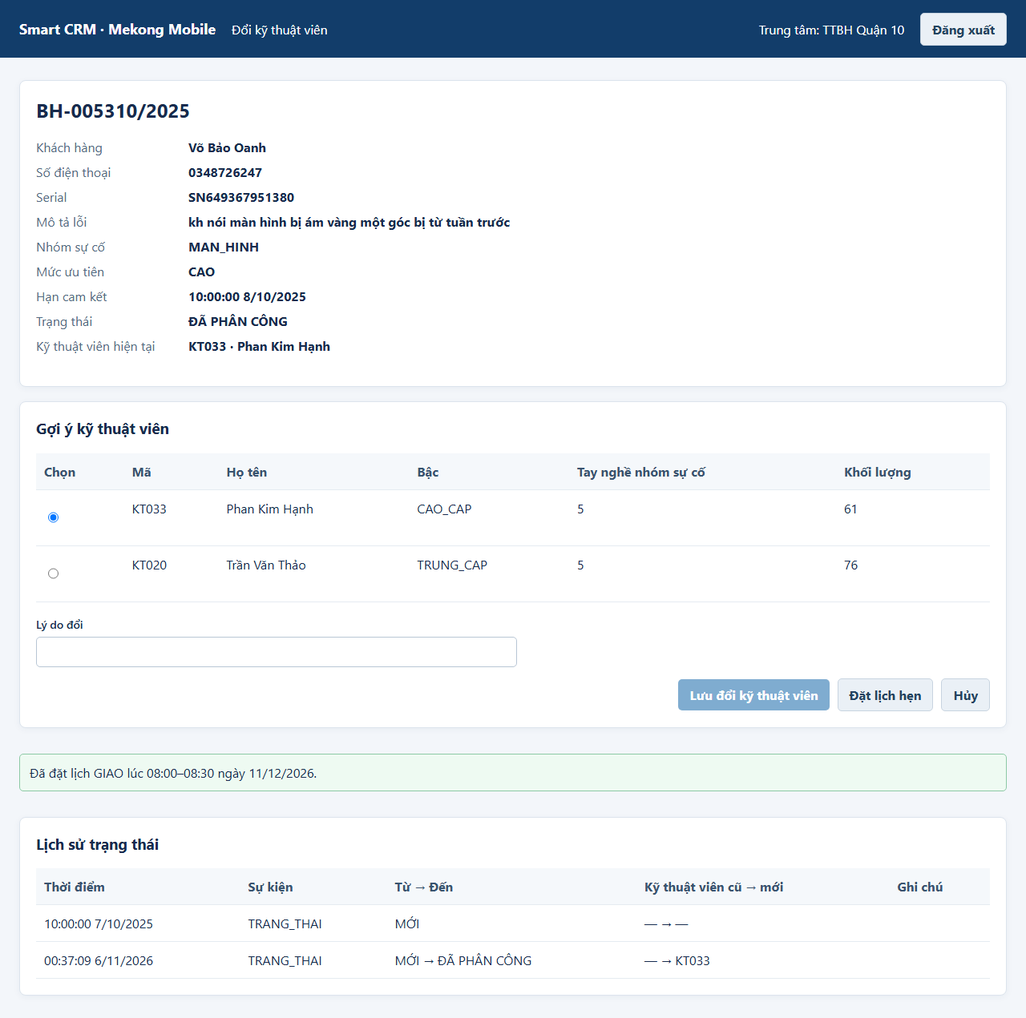
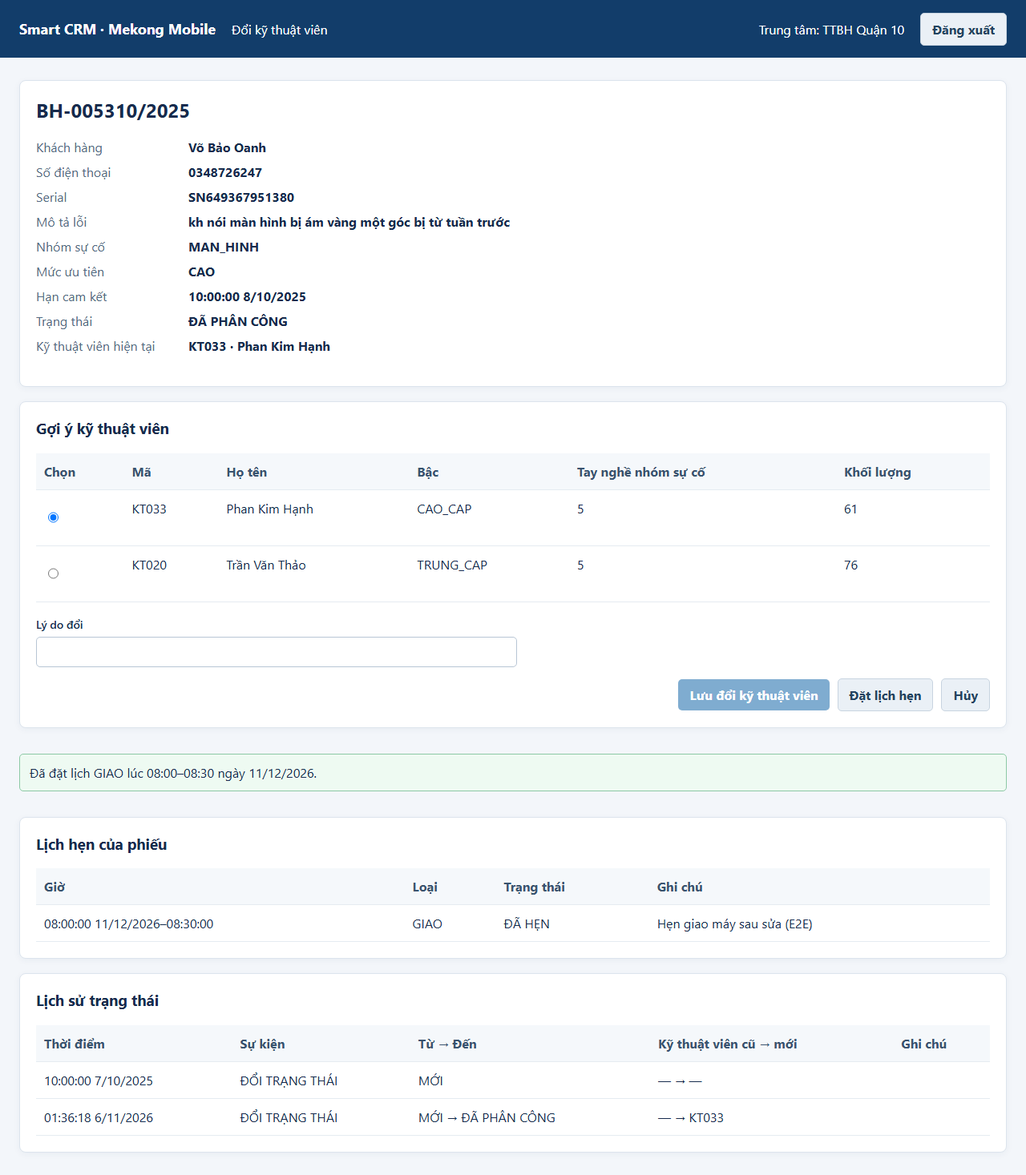
test: add TC01-TC18 browser evidence and generated testcase report
18 passed in 255.47s on e6ed9eb; 31 real browser screenshots plus
docs/test-evidence/testcase.md. E2E images refreshed for the new UI.

diff --git a/docs/test-evidence/testcase.md b/docs/test-evidence/testcase.md
@@ -1,0 +1,293 @@
+# BÁO CÁO KẾT QUẢ KIỂM THỬ TỰ ĐỘNG
+
+## 1. Thông tin lần chạy
+- Thời điểm: 2026-11-06T01:36:00+07:00
+- Lệnh chạy: `python -m pytest -p no:cacheprovider -m system`
+- Commit hash: `e6ed9eb` (nhánh `main`)
+- Hệ điều hành: Windows-11-10.0.26300-SP0
+- Python 3.14.2 · pytest 9.1.1 · Playwright 1.64.1
+- Trình duyệt: chromium 156.0.8078.4
+- UI_BASE_URL: http://localhost:5173 · API_BASE_URL: http://localhost:8000
+- CSDL: mỗi test chạy trên `smartcrm_work_test`, tạo lại từ `smartcrm_test` (dữ liệu thật) trước test; backend được khởi động lại trên bản sao đó.
+- Số dòng 6 bảng của `smartcrm_test` lúc chạy: service_center 6, technician 38, technician_skill 159, ticket 7.317, ticket_status_log 35.719, appointment 300
+- Seed dữ liệu: phiếu MOI seed 20260901; lịch hẹn seed 20261102.
+
+## 2. Tổng hợp
+- Tổng số test: 18; PASS: 18; FAIL: 0; bỏ qua: 0; tổng thời gian: 254.7s
+- Dòng cuối của pytest: `18 passed in 254.74s`
+
+| Mã | Tên | Loại | Truy vết | Kênh | Kết quả | Thời gian (s) |
+|---|---|---|---|---|---|---:|
+| TC01 | Gợi ý kỹ thuật viên đúng thứ tự khối lượng công việc | Luồng đúng | US2 · FR2 · AC2.1 · QT-08, A1, A4, A6 | UI React | PASS | 15.56 |
+| TC02 | Gợi ý loại bỏ kỹ thuật viên không đủ điều kiện | Ngoại lệ | US2 · FR2 · AC2.2 · QT-08, A6 | UI React | PASS | 15.52 |
+| TC03 | Gợi ý trả danh sách rỗng kèm lý do khi không có kỹ thuật viên phù hợp | Ngoại lệ | US2 · FR2 · AC2.3 · QT-08 | UI React | PASS | 14.44 |
+| TC04 | Phân công kỹ thuật viên thành công và ghi lịch sử trạng thái | Luồng đúng | US3 · FR3, FR8 · AC3.1 · QT-06, QT-07, QT-08 | UI React | PASS | 14.34 |
+| TC05 | Biên: kỹ thuật viên có tay nghề đúng bằng 3 được phân công | Biên | US3 · FR3 · QT-08 | UI React | PASS | 9.90 |
+| TC06 | Biên: kỹ thuật viên có tay nghề bằng 2 bị từ chối | Biên | US3 · FR3 · AC3.2 · QT-08 | Swagger | PASS | 13.19 |
+| TC07 | Từ chối phân công khi phiếu đã được phân công | Ngoại lệ | US3 · FR3 · AC3.3 · QT-06, QT-07, NFR2 | UI React | PASS | 10.17 |
+| TC08 | Đặt lịch hẹn giao/nhận thiết bị hợp lệ | Luồng đúng | US6 · FR6 · AC6.1 · A2, QT-13 | UI React | PASS | 13.80 |
+| TC09 | Từ chối đặt lịch hẹn trùng khung giờ | Ngoại lệ | US6 · FR7 · AC6.2 · A3, NFR2 | Swagger | PASS | 15.22 |
+| TC10 | Biên: lịch hẹn liền kề (kết thúc = bắt đầu) không bị coi là trùng | Biên | US6 · FR7 · A3 | UI React | PASS | 14.21 |
+| TC11 | Từ chối chuyển trạng thái lùi, nhảy bước hoặc giá trị không hợp lệ | Ngoại lệ | US7 · FR8 · QT-06 | Swagger | PASS | 14.06 |
+| TC12 | Đổi kỹ thuật viên: bắt buộc có lý do, lý do rỗng bị từ chối | Dữ liệu sai | US4 · FR4 · QT-07 · EX-5.1 | Swagger + UI React | PASS | 14.82 |
+| TC13 | Che số điện thoại và phân quyền theo vai trò | Ngoại lệ | US5 · FR5 · QT-14, QT-15 · NFR3 | Swagger + UI React | PASS | 22.11 |
+| TC14 | Giao diện M1: trạng thái đang tải | Luồng đúng | US1 · FR1 · yêu cầu 3 trạng thái (Buổi 10) | UI React | PASS | 16.82 |
+| TC15 | Giao diện M1: trạng thái rỗng (không có phiếu chờ phân công) | Ngoại lệ | US1 · FR1 · EX-1.1 | UI React | PASS | 10.76 |
+| TC16 | Giao diện M1: trạng thái lỗi và nút Thử lại | Ngoại lệ | US1 · FR1 · NFR2 · EX-7b | UI React | PASS | 10.33 |
+| TC17 | Giao diện: xử lý 401 (hết phiên) và đăng nhập sai | Ngoại lệ | NFR3 · yêu cầu đăng nhập và 401 (Buổi 10) | UI React | PASS | 13.05 |
+| TC18 | End-to-end luồng chính: phân công → đặt lịch hẹn → cập nhật trạng thái đến HOÀN TẤT | Luồng đúng | US1–US7 · FR1–FR8 · UC1–UC7 · NFR4 | UI React | PASS | 16.43 |
+
+## 3. Chi tiết từng test case
+
+### TC01 – Gợi ý kỹ thuật viên đúng thứ tự khối lượng công việc
+- Loại: Luồng đúng | Truy vết: US2 · FR2 · AC2.1 · QT-08, A1, A4, A6 | Hàm test: `tests/service/test_suggestion.py::test_tc01_goi_y_dung_thu_tu[chromium]`
+- Given: Dữ liệu thật đã nạp. Tự tìm trong dữ liệu một cặp (trung tâm A, nhóm sự cố X) có ≥ 3 kỹ thuật viên đang làm việc với tay nghề ≥ 3. / Tạo 1 phiếu MỚI thuộc trung tâm A, nhóm X (trong giao dịch thử, sẽ rollback). / Trong giao dịch thử: vô hiệu hóa các phiếu đang giữ thật của 3 kỹ thuật viên đó rồi tạo phiếu để khối lượng lần lượt là 5, 2, 8; tắt (is_active = false) các kỹ thuật viên đủ điều kiện còn lại.
+- When: Quản lý trung tâm A gọi GET /api/tickets/{ticket_id}/technician-suggestions.
+- Then (kỳ vọng): HTTP 200; danh sách đúng 3 kỹ thuật viên theo thứ tự khối lượng 2 → 5 → 8. / Mỗi dòng có technician_code, full_name, proficiency (≥ 3) và workload.
+- Dữ liệu thật dùng: Trung tâm TT03, nhóm KHAC, phiếu MỚI TEST-7816 (tạo trên bản sao); KTV KT003, KT022, KT027; 3 KTV đủ điều kiện khác được tắt
+- Kết quả thực tế: HTTP 200; gợi ý theo thứ tự KT022 (khối lượng 2) → KT003 (khối lượng 5) → KT027 (khối lượng 8); SQL đếm khối lượng khớp (thời gian chạy 15.56s)
+- Trạng thái: PASS
+- Ảnh:
+  - TC01_goi_y_dung_thu_tu.png | http://localhost:5173/tickets/7816/assign | Smart CRM - Mekong Mobile | 2026-11-06T01:34:23+07:00 | 1280×1090 | tồn tại
+
+### TC02 – Gợi ý loại bỏ kỹ thuật viên không đủ điều kiện
+- Loại: Ngoại lệ | Truy vết: US2 · FR2 · AC2.2 · QT-08, A6 | Hàm test: `tests/service/test_suggestion.py::test_tc02_goi_y_loai_ktv_khong_du_dieu_kien[chromium]`
+- Given: Cùng kịch bản TC01 (trung tâm A, nhóm X, phiếu MỚI). / Thêm trong giao dịch thử: 1 kỹ thuật viên trung tâm A có tay nghề nhóm X = 2; 1 kỹ thuật viên trung tâm B có tay nghề nhóm X = 5; 1 kỹ thuật viên trung tâm A đủ tay nghề nhưng is_active = false.
+- When: Quản lý trung tâm A mở gợi ý cho phiếu.
+- Then (kỳ vọng): HTTP 200; cả 3 kỹ thuật viên nói trên KHÔNG xuất hiện trong danh sách. / Danh sách chỉ gồm người cùng trung tâm A, đang làm việc, tay nghề ≥ 3.
+- Dữ liệu thật dùng: Trung tâm TT03, nhóm KHAC, phiếu TEST-7816; KTV bị loại: KT019 (tay nghề 2); KT002 (trung tâm khác, tay nghề 5); KT032 (đã nghỉ, tay nghề 4)
+- Kết quả thực tế: HTTP 200; danh sách gợi ý KT022, KT003, KT027; không có KT019, KT002, KT032 (thời gian chạy 15.52s)
+- Trạng thái: PASS
+- Ảnh:
+  - TC02_goi_y_loai_ktv_khong_du_dieu_kien.png | http://localhost:5173/tickets/7816/assign | Smart CRM - Mekong Mobile | 2026-11-06T01:34:38+07:00 | 1280×1090 | tồn tại
+
+### TC03 – Gợi ý trả danh sách rỗng kèm lý do khi không có kỹ thuật viên phù hợp
+- Loại: Ngoại lệ | Truy vết: US2 · FR2 · AC2.3 · QT-08 | Hàm test: `tests/service/test_suggestion.py::test_tc03_goi_y_rong_khong_co_ktv[chromium]`
+- Given: Phiếu MỚI thuộc trung tâm A, nhóm sự cố Y. / Trong giao dịch thử: hạ tay nghề nhóm Y của mọi kỹ thuật viên trung tâm A xuống < 3.
+- When: Quản lý trung tâm A mở gợi ý cho phiếu.
+- Then (kỳ vọng): HTTP 200 (không phải lỗi); suggestions là danh sách rỗng. / Có trường message nêu rõ lý do (không có người cùng trung tâm đủ tay nghề ≥ 3). / Phiếu vẫn ở trạng thái MOI, không có kỹ thuật viên.
+- Dữ liệu thật dùng: Phiếu MỚI thật BH-000001/2025 (trung tâm TT05, nhóm SAC); hạ tay nghề SAC của 4 KTV trung tâm này xuống 2 trên bản sao
+- Kết quả thực tế: HTTP 200; suggestions = []; message: "Không có kỹ thuật viên cùng trung tâm đủ tay nghề từ 3 trở lên."; phiếu vẫn MOI, chưa có KTV (thời gian chạy 14.44s)
+- Trạng thái: PASS
+- Ảnh:
+  - TC03_goi_y_rong_khong_co_ktv.png | http://localhost:5173/tickets/1/assign | Smart CRM - Mekong Mobile | 2026-11-06T01:34:53+07:00 | 1280×893 | tồn tại
+
+### TC04 – Phân công kỹ thuật viên thành công và ghi lịch sử trạng thái
+- Loại: Luồng đúng | Truy vết: US3 · FR3, FR8 · AC3.1 · QT-06, QT-07, QT-08 | Hàm test: `tests/service/test_assignment.py::test_tc04_phan_cong_thanh_cong[chromium]`
+- Given: Phiếu MỚI thuộc trung tâm A, nhóm X, chưa có kỹ thuật viên. / Kỹ thuật viên P đứng đầu danh sách gợi ý (cùng trung tâm, tay nghề ≥ 3, đang làm việc). / Ghi nhận trước số dòng ticket_status_log của phiếu.
+- When: Quản lý trung tâm A gọi POST /api/tickets/{ticket_id}/assignment với {"technician_id": P}.
+- Then (kỳ vọng): HTTP 201; phản hồi có status = DA_PHAN_CONG, technician_id = P, assigned_by, assigned_at. / Trong CSDL: ticket.status = DA_PHAN_CONG và ticket.technician_id = P. / ticket_status_log tăng đúng 1 dòng: event_type = TRANG_THAI, from_status = MOI, to_status = DA_PHAN_CONG, to_technician_id = P, có changed_by và changed_at.
+- Dữ liệu thật dùng: Phiếu MỚI thật BH-000001/2025 (trung tâm TT05, nhóm SAC); KTV đầu danh sách KT026 (khối lượng 20)
+- Kết quả thực tế: HTTP 201, status DA_PHAN_CONG, technician_id 26, assigned_by 5; log 1 → 2 dòng (TRANG_THAI, MOI → DA_PHAN_CONG) (thời gian chạy 14.34s)
+- Trạng thái: PASS
+- Ảnh:
+  - TC04_phan_cong_thanh_cong.png | http://localhost:5173/tickets/1/assign | Smart CRM - Mekong Mobile | 2026-11-06T01:33:05+07:00 | 1280×1411 | tồn tại
+
+### TC05 – Biên: kỹ thuật viên có tay nghề đúng bằng 3 được phân công
+- Loại: Biên | Truy vết: US3 · FR3 · QT-08 | Hàm test: `tests/service/test_assignment.py::test_tc05_bien_tay_nghe_bang_3[chromium]`
+- Given: Phiếu MỚI thuộc trung tâm A, nhóm X. / Kỹ thuật viên Q cùng trung tâm A, đang làm việc, tay nghề nhóm X đặt đúng = 3 (trong giao dịch thử).
+- When: Quản lý trung tâm A phân công Q cho phiếu.
+- Then (kỳ vọng): HTTP 201; phiếu chuyển sang DA_PHAN_CONG với technician_id = Q (ngưỡng ≥ 3 là ngưỡng đóng, giá trị 3 hợp lệ).
+- Dữ liệu thật dùng: Phiếu MỚI thật BH-000001/2025 (trung tâm TT05, nhóm SAC); KTV KT024 cùng trung tâm, đặt proficiency SAC = 3 trên bản sao
+- Kết quả thực tế: HTTP 201; phiếu DA_PHAN_CONG, technician_id = 24 (KT024) (thời gian chạy 9.90s)
+- Trạng thái: PASS
+- Ảnh:
+  - TC05_bien_tay_nghe_bang_3.png | http://localhost:5173/tickets/1/assign | Smart CRM - Mekong Mobile | 2026-11-06T01:33:15+07:00 | 1280×1481 | tồn tại
+
+### TC06 – Biên: kỹ thuật viên có tay nghề bằng 2 bị từ chối
+- Loại: Biên | Truy vết: US3 · FR3 · AC3.2 · QT-08 | Hàm test: `tests/service/test_assignment.py::test_tc06_bien_tay_nghe_bang_2[chromium]`
+- Given: Phiếu MỚI thuộc trung tâm A, nhóm X. / Kỹ thuật viên R cùng trung tâm A, đang làm việc, tay nghề nhóm X = 2. / Ghi nhận trước số dòng ticket_status_log.
+- When: Quản lý trung tâm A gửi yêu cầu phân công R cho phiếu.
+- Then (kỳ vọng): HTTP 400, mã lỗi TECHNICIAN_NOT_ELIGIBLE, message nêu rõ tay nghề < 3. / Phiếu vẫn status = MOI, technician_id = NULL; ticket_status_log không tăng dòng nào.
+- Dữ liệu thật dùng: Phiếu MỚI thật BH-000001/2025 (trung tâm TT05, nhóm SAC); KTV KT007 (id 7) đặt proficiency SAC = 2 trên bản sao
+- Kết quả thực tế: HTTP 400 TECHNICIAN_NOT_ELIGIBLE: "Kỹ thuật viên không đủ điều kiện: tay nghề SAC = 2 (< 3) hoặc khác trung tâm/đã nghỉ việc."; phiếu vẫn MOI, technician_id NULL; log giữ 1 dòng (thời gian chạy 13.19s)
+- Trạng thái: PASS
+- Ảnh:
+  - TC06_bien_tay_nghe_bang_2.png | http://localhost:8000/docs#/tickets/assign_ticket_api_tickets__ticket_id__assignment_post | Smart CRM - Swagger UI | 2026-11-06T01:33:28+07:00 | 1224×1378 (khối thao tác Swagger) | tồn tại
+
+### TC07 – Từ chối phân công khi phiếu đã được phân công
+- Loại: Ngoại lệ | Truy vết: US3 · FR3 · AC3.3 · QT-06, QT-07, NFR2 | Hàm test: `tests/service/test_assignment.py::test_tc07_phan_cong_phieu_da_co_ktv[chromium]`
+- Given: Phiếu đã được phân công cho kỹ thuật viên P (status DA_PHAN_CONG) qua đúng nghiệp vụ. / Kỹ thuật viên Q khác, đủ điều kiện, cùng trung tâm.
+- When: Một quản lý khác của cùng trung tâm gọi POST /assignment với technician_id = Q cho cùng phiếu.
+- Then (kỳ vọng): HTTP 409, mã lỗi TICKET_ALREADY_ASSIGNED, message có mã kỹ thuật viên hiện tại (P). / Phiếu vẫn technician_id = P; ticket_status_log không tăng thêm dòng.
+- Dữ liệu thật dùng: Phiếu MỚI thật BH-000001/2025 (trung tâm TT05, nhóm SAC); phiên 2 phân công KT026, phiên 1 thử phân công KT017
+- Kết quả thực tế: Phiên 2: HTTP 201. Phiên 1: HTTP 409 TICKET_ALREADY_ASSIGNED: "Phiếu đã được phân công cho kỹ thuật viên KT026."; phiếu vẫn thuộc KT026; log không tăng thêm (thời gian chạy 10.17s)
+- Trạng thái: PASS
+- Ảnh:
+  - TC07_phan_cong_phieu_da_co_ktv.png | http://localhost:5173/tickets/1/assign | Smart CRM - Mekong Mobile | 2026-11-06T01:33:38+07:00 | 1280×1294 | tồn tại
+
+### TC08 – Đặt lịch hẹn giao/nhận thiết bị hợp lệ
+- Loại: Luồng đúng | Truy vết: US6 · FR6 · AC6.1 · A2, QT-13 | Hàm test: `tests/service/test_appointment.py::test_tc08_dat_lich_hop_le[chromium]`
+- Given: Phiếu đã gán kỹ thuật viên K (DA_PHAN_CONG); K chưa có lịch nào vào ngày làm việc D (Thứ Hai–Thứ Bảy, cách hôm nay ≥ 30 ngày để không đụng lịch hẹn mẫu).
+- When: Kỹ thuật viên K (hoặc Quản lý) gọi POST /api/appointments với appointment_type = NHAN, 09:00–09:30 ngày D.
+- Then (kỳ vọng): HTTP 201; phản hồi có status = DA_HEN, technician_id = K, appointment_type = NHAN, start_at/end_at đúng khung 09:00–09:30. / Lịch hẹn xuất hiện trong danh sách lịch hẹn của phiếu và của K.
+- Dữ liệu thật dùng: KTV KT008, phiếu thật BH-000009/2026 (DA_PHAN_CONG); ngày D = 07/12/2026, K chưa có lịch ngày D
+- Kết quả thực tế: HTTP 201, appointment_id 301, status DA_HEN, NHAN, 09:00–09:30 ngày 07/12/2026; có trong lịch hẹn của phiếu và của KT008 (thời gian chạy 13.80s)
+- Trạng thái: PASS
+- Ảnh:
+  - TC08_dat_lich_hop_le.png | http://localhost:5173/my-tickets | Smart CRM - Mekong Mobile | 2026-11-06T01:32:21+07:00 | 1280×2357 | tồn tại
+
+### TC09 – Từ chối đặt lịch hẹn trùng khung giờ
+- Loại: Ngoại lệ | Truy vết: US6 · FR7 · AC6.2 · A3, NFR2 | Hàm test: `tests/service/test_appointment.py::test_tc09_dat_lich_trung[chromium]`
+- Given: Kỹ thuật viên K đã có lịch hẹn DA_HEN 09:00–09:30 vào ngày làm việc D (Thứ Hai–Thứ Bảy, cách hôm nay ≥ 30 ngày để không đụng lịch hẹn mẫu). / Ghi nhận trước số dòng bảng appointment.
+- When: Đặt thêm lịch hẹn cho K khung 09:15–09:45 cùng ngày.
+- Then (kỳ vọng): HTTP 409, mã lỗi APPOINTMENT_OVERLAP. / Trường conflicts liệt kê lịch bị trùng (appointment_id, ticket_code, start_at, end_at). / Số dòng bảng appointment không đổi (không lưu lịch mới).
+- Dữ liệu thật dùng: KTV KT008, phiếu thật BH-000009/2026; ngày D = 07/12/2026; lịch có sẵn #301 09:00–09:30
+- Kết quả thực tế: HTTP 409 APPOINTMENT_OVERLAP; conflicts: #301 BH-000009/2026 09:00–09:30; bảng appointment giữ 301 dòng (thời gian chạy 15.22s)
+- Trạng thái: PASS
+- Ảnh:
+  - TC09_dat_lich_trung.png | http://localhost:8000/docs#/appointments/create_appointment_api_appointments_post | Smart CRM - Swagger UI | 2026-11-06T01:32:37+07:00 | 1224×1564 (khối thao tác Swagger) | tồn tại
+
+### TC10 – Biên: lịch hẹn liền kề (kết thúc = bắt đầu) không bị coi là trùng
+- Loại: Biên | Truy vết: US6 · FR7 · A3 | Hàm test: `tests/service/test_appointment.py::test_tc10_bien_lich_lien_ke[chromium]`
+- Given: Kỹ thuật viên K đã có lịch DA_HEN 09:00–09:30 vào ngày làm việc D (Thứ Hai–Thứ Bảy, cách hôm nay ≥ 30 ngày để không đụng lịch hẹn mẫu).
+- When: Đặt thêm lịch hẹn cho K khung 09:30–10:00 cùng ngày.
+- Then (kỳ vọng): HTTP 201; lịch mới được lưu (khoảng nửa mở [start, end) nên không giao nhau). / K có đúng 2 lịch DA_HEN trong ngày D; ràng buộc EXCLUDE của CSDL không báo lỗi.
+- Dữ liệu thật dùng: KTV KT008, phiếu thật BH-000009/2026; ngày D = 07/12/2026; lịch có sẵn #301 09:00–09:30
+- Kết quả thực tế: HTTP 201 cho lịch 09:30–10:00; K có đúng 2 lịch DA_HEN ngày D (09:00–09:30, 09:30–10:00); ràng buộc EXCLUDE không báo lỗi (thời gian chạy 14.21s)
+- Trạng thái: PASS
+- Ảnh:
+  - TC10_bien_lich_lien_ke.png | http://localhost:5173/my-tickets | Smart CRM - Mekong Mobile | 2026-11-06T01:32:51+07:00 | 1280×2403 | tồn tại
+
+### TC11 – Từ chối chuyển trạng thái lùi, nhảy bước hoặc giá trị không hợp lệ
+- Loại: Ngoại lệ | Truy vết: US7 · FR8 · QT-06 | Hàm test: `tests/service/test_status.py::test_tc11_chuyen_trang_thai_lui[chromium]`
+- Given: Kỹ thuật viên K có phiếu T1 ở trạng thái HOAN_TAT và phiếu T2 ở trạng thái DA_PHAN_CONG. / Ghi nhận trước số dòng ticket_status_log của T1, T2.
+- When: (a) K gọi PATCH /api/tickets/{T1}/status với to_status = DANG_XU_LY (lùi). / (b) K gọi PATCH /api/tickets/{T2}/status với to_status = HOAN_TAT (nhảy bước). / (c) K gọi PATCH /api/tickets/{T2}/status với to_status = "ABC".
+- Then (kỳ vọng): (a) và (b): HTTP 409; trạng thái phiếu giữ nguyên; log không tăng. / (c): HTTP 400 (giá trị trạng thái không hợp lệ); T2 vẫn DA_PHAN_CONG.
+- Dữ liệu thật dùng: KTV KT002; T1 = BH-000788/2024 (HOAN_TAT), T2 = BH-000622/2025 (DA_PHAN_CONG)
+- Kết quả thực tế: (a) HTTP 409 "Không thể chuyển từ HOAN_TAT sang DANG_XU_LY."; (b) HTTP 409 "Không thể chuyển từ DA_PHAN_CONG sang HOAN_TAT."; (c) HTTP 400 INVALID_STATUS; T1 vẫn HOAN_TAT, T2 vẫn DA_PHAN_CONG; log không đổi (thời gian chạy 14.06s)
+- Trạng thái: PASS
+- Ảnh:
+  - TC11_chuyen_trang_thai_lui.png | http://localhost:8000/docs#/tickets/update_ticket_status_api_tickets__ticket_id__status_patch | Smart CRM - Swagger UI | 2026-11-06T01:34:07+07:00 | 1224×1378 (khối thao tác Swagger) | tồn tại
+  - TC11_chuyen_trang_thai_lui_b.png | http://localhost:8000/docs#/tickets/update_ticket_status_api_tickets__ticket_id__status_patch | Smart CRM - Swagger UI | 2026-11-06T01:34:07+07:00 | 1224×1386 (khối thao tác Swagger) | tồn tại
+  - TC11_chuyen_trang_thai_lui_c.png | http://localhost:8000/docs#/tickets/update_ticket_status_api_tickets__ticket_id__status_patch | Smart CRM - Swagger UI | 2026-11-06T01:34:07+07:00 | 1224×1386 (khối thao tác Swagger) | tồn tại
+
+### TC12 – Đổi kỹ thuật viên: bắt buộc có lý do, lý do rỗng bị từ chối
+- Loại: Dữ liệu sai | Truy vết: US4 · FR4 · QT-07 · EX-5.1 | Hàm test: `tests/service/test_assignment.py::test_tc12_doi_ktv_thieu_ly_do[chromium]`
+- Given: Phiếu DA_PHAN_CONG đang gán cho kỹ thuật viên K1; kỹ thuật viên K2 đủ điều kiện cùng trung tâm. / Ghi nhận trước số dòng ticket_status_log.
+- When: (a) Quản lý gọi PUT /api/tickets/{id}/assignment với technician_id = K2, reason = "". / (b) Như (a) nhưng reason = "   " (chỉ khoảng trắng). / (c) Như (a) nhưng reason = "Kỹ thuật viên cũ nghỉ phép".
+- Then (kỳ vọng): (a) và (b): HTTP 400; phiếu vẫn thuộc K1; log không tăng. / (c): HTTP 200; phiếu chuyển sang K2, trạng thái phiếu không lùi; log tăng đúng 1 dòng event_type = DOI_KTV, from_technician_id = K1, to_technician_id = K2, note = lý do.
+- Dữ liệu thật dùng: Phiếu thật BH-000009/2026 (trung tâm TT02, nhóm SAC) đang thuộc KT008; K2 = KT012
+- Kết quả thực tế: (a) reason "": HTTP 400 REASON_REQUIRED; (b) reason "   ": HTTP 400 REASON_REQUIRED; (c) lý do hợp lệ: HTTP 200, phiếu chuyển sang KT012, vẫn DA_PHAN_CONG; log thêm 1 dòng DOI_KTV KT008 → KT012 (thời gian chạy 14.82s)
+- Trạng thái: PASS
+- Ảnh:
+  - TC12_doi_ktv_thieu_ly_do_a.png | http://localhost:8000/docs#/tickets/change_assignment_api_tickets__ticket_id__assignment_put | Smart CRM - Swagger UI | 2026-11-06T01:33:52+07:00 | 1224×1392 (khối thao tác Swagger) | tồn tại
+  - TC12_doi_ktv_thieu_ly_do.png | http://localhost:5173/tickets/9/assign | Smart CRM - Mekong Mobile | 2026-11-06T01:33:53+07:00 | 1280×1653 | tồn tại
+
+### TC13 – Che số điện thoại và phân quyền theo vai trò
+- Loại: Ngoại lệ | Truy vết: US5 · FR5 · QT-14, QT-15 · NFR3 | Hàm test: `tests/service/test_access.py::test_tc13_che_so_dien_thoai_va_phan_quyen[chromium]`
+- Given: Phiếu T1 gán cho kỹ thuật viên K, khách có số điện thoại 10 chữ số; phiếu T2 gán cho kỹ thuật viên K' khác. / Có Quản lý trung tâm của trung tâm chứa T1.
+- When: (a) K gọi GET /api/technicians/me/tickets. / (b) Quản lý gọi GET /api/tickets/{T1} (hoặc danh sách phiếu). / (c) K gọi GET /api/tickets/{T2}.
+- Then (kỳ vọng): (a) Số điện thoại dạng che 3 số đầu + **** + 3 số cuối (ví dụ 090****456); 0 phiếu của người khác trong phản hồi. / (b) Số điện thoại hiển thị đầy đủ cho Quản lý. / (c) HTTP 403.
+- Dữ liệu thật dùng: T1 = BH-000002/2025 của KTV KT005 (SĐT khách 0334058225); T2 = BH-000003/2026 của KT013; Quản lý QL_TT02
+- Kết quả thực tế: (a) 211 phiếu, tất cả của KT005, SĐT dạng che (T1: 033****225); (b) Quản lý thấy 0334058225; (c) HTTP 403 "Bạn không phải kỹ thuật viên phụ trách phiếu này" (thời gian chạy 22.11s)
+- Trạng thái: PASS
+- Ảnh:
+  - TC13_che_so_dien_thoai_va_phan_quyen.png | http://localhost:5173/my-tickets | Smart CRM - Mekong Mobile | 2026-11-06T01:32:00+07:00 | 1280×1995 | tồn tại
+  - TC13_che_so_dien_thoai_va_phan_quyen_c.png | http://localhost:8000/docs#/tickets/get_ticket_api_tickets__ticket_id__get | Smart CRM - Swagger UI | 2026-11-06T01:32:02+07:00 | 1224×895 (khối thao tác Swagger) | tồn tại
+  - TC13_che_so_dien_thoai_va_phan_quyen_b.png | http://localhost:5173/tickets/2/assign | Smart CRM - Mekong Mobile | 2026-11-06T01:32:08+07:00 | 1280×1364 | tồn tại
+
+### TC14 – Giao diện M1: trạng thái đang tải
+- Loại: Luồng đúng | Truy vết: US1 · FR1 · yêu cầu 3 trạng thái (Buổi 10) | Hàm test: `tests/ui/test_states.py::test_tc14_ui_trang_thai_dang_tai[chromium]`
+- Given: Đăng nhập bằng Quản lý của trung tâm có phiếu MỚI (dữ liệu thật). / Playwright làm chậm phản hồi GET /api/tickets 3 giây.
+- When: Mở màn hình M1 – Phiếu chờ phân công.
+- Then (kỳ vọng): Trong lúc chờ thấy vùng [data-testid=state-loading] với chữ "Đang tải dữ liệu…"; chụp ảnh đúng lúc này. / Sau khi dữ liệu về: vùng đang tải biến mất, bảng hiển thị ≥ 1 dòng phiếu thật.
+- Dữ liệu thật dùng: Quản lý QL_TT01 (5 phiếu MOI thật); GET /api/tickets bị giữ 3.0s
+- Kết quả thực tế: Trong lúc chờ: "Đang tải dữ liệu…", chưa có bảng; sau 3.0s bảng hiện 5 phiếu, dòng đầu BH-005310/2025 (thời gian chạy 16.82s)
+- Trạng thái: PASS
+- Ảnh:
+  - TC14_ui_trang_thai_dang_tai.png | http://localhost:5173/tickets | Smart CRM - Mekong Mobile | 2026-11-06T01:35:19+07:00 | 1280×720 | tồn tại
+
+### TC15 – Giao diện M1: trạng thái rỗng (không có phiếu chờ phân công)
+- Loại: Ngoại lệ | Truy vết: US1 · FR1 · EX-1.1 | Hàm test: `tests/ui/test_states.py::test_tc15_ui_trang_thai_rong[chromium]`
+- Given: Đăng nhập bằng Quản lý của trung tâm không có phiếu MỚI nào (script nạp dữ liệu cố ý chừa 1 trung tâm).
+- When: Mở màn hình M1.
+- Then (kỳ vọng): Hiển thị vùng [data-testid=state-empty] với chữ "Không có phiếu chờ phân công". / Không có vùng lỗi [data-testid=state-error]; không hiển thị thông báo đỏ.
+- Dữ liệu thật dùng: Quản lý QL_TT06; trên bản sao đã xoá 5 phiếu MOI của trung tâm này (BH-004381/2024, BH-004873/2024, BH-005905/2025, BH-006447/2026, BH-007629/2025); SQL đếm MOI = 0
+- Kết quả thực tế: M1 hiện "Không có phiếu chờ phân công"; không có vùng lỗi, không có dải đỏ (thời gian chạy 10.76s)
+- Trạng thái: PASS
+- Ảnh:
+  - TC15_ui_trang_thai_rong.png | http://localhost:5173/tickets | Smart CRM - Mekong Mobile | 2026-11-06T01:35:37+07:00 | 1280×720 | tồn tại
+
+### TC16 – Giao diện M1: trạng thái lỗi và nút Thử lại
+- Loại: Ngoại lệ | Truy vết: US1 · FR1 · NFR2 · EX-7b | Hàm test: `tests/ui/test_states.py::test_tc16_ui_trang_thai_loi[chromium]`
+- Given: Đăng nhập Quản lý của trung tâm có phiếu MỚI. / Playwright chặn (abort) GET /api/tickets để mô phỏng backend không phản hồi.
+- When: Mở M1; sau đó bỏ chặn và bấm nút "Thử lại".
+- Then (kỳ vọng): Hiển thị vùng [data-testid=state-error] có thông báo lỗi dễ hiểu và nút "Thử lại" ([data-testid=retry-button]); chụp ảnh 1. / Sau khi bỏ chặn và bấm Thử lại: bảng phiếu thật hiển thị; chụp ảnh 2.
+- Dữ liệu thật dùng: Quản lý QL_TT01 (5 phiếu MOI thật); GET /api/tickets bị chặn (abort) rồi bỏ chặn
+- Kết quả thực tế: Lần 1: "Không thể kết nối máy chủ. Vui lòng thử lại." + nút Thử lại; sau khi bấm Thử lại: bảng hiện 5 phiếu thật, dải lỗi biến mất (thời gian chạy 10.33s)
+- Trạng thái: PASS
+- Ảnh:
+  - TC16_ui_trang_thai_loi_1_loi.png | http://localhost:5173/tickets | Smart CRM - Mekong Mobile | 2026-11-06T01:35:47+07:00 | 1280×720 | tồn tại
+  - TC16_ui_trang_thai_loi_2_thu_lai.png | http://localhost:5173/tickets | Smart CRM - Mekong Mobile | 2026-11-06T01:35:47+07:00 | 1280×720 | tồn tại
+
+### TC17 – Giao diện: xử lý 401 (hết phiên) và đăng nhập sai
+- Loại: Ngoại lệ | Truy vết: NFR3 · yêu cầu đăng nhập và 401 (Buổi 10) | Hàm test: `tests/ui/test_states.py::test_tc17_ui_het_phien_dang_nhap_401[chromium]`
+- Given: Đang đăng nhập (có token trong trình duyệt). / Playwright cho GET /api/tickets trả HTTP 401.
+- When: (a) Mở M1 khi API trả 401. / (b) Tại trang đăng nhập, nhập sai mật khẩu.
+- Then (kỳ vọng): (a) Token bị xóa khỏi bộ nhớ trình duyệt và giao diện chuyển về trang đăng nhập; chụp ảnh 1. / (b) Trang đăng nhập hiển thị thông báo lỗi "Sai tên đăng nhập hoặc mật khẩu", không bị lặp chuyển trang; chụp ảnh 2.
+- Dữ liệu thật dùng: Quản lý QL_TT01; GET /api/tickets trả 401 (page.route); mật khẩu sai "mat-khau-sai"
+- Kết quả thực tế: (a) về /login, access_token = null; (b) thông báo "Sai tên đăng nhập hoặc mật khẩu", không có điều hướng nào trong 1,5 giây (thời gian chạy 13.05s)
+- Trạng thái: PASS
+- Ảnh:
+  - TC17_ui_het_phien_dang_nhap_401_1_ve_dang_nhap.png | http://localhost:5173/login | Smart CRM - Mekong Mobile | 2026-11-06T01:35:58+07:00 | 1280×720 | tồn tại
+  - TC17_ui_het_phien_dang_nhap_401_2_sai_mat_khau.png | http://localhost:5173/login | Smart CRM - Mekong Mobile | 2026-11-06T01:36:00+07:00 | 1280×720 | tồn tại
+
+### TC18 – End-to-end luồng chính: phân công → đặt lịch hẹn → cập nhật trạng thái đến HOÀN TẤT
+- Loại: Luồng đúng | Truy vết: US1–US7 · FR1–FR8 · UC1–UC7 · NFR4 | Hàm test: `tests/ui/test_e2e_main_flow.py::test_tc18_ui_e2e_luong_chinh[chromium]`
+- Given: Dữ liệu thật đã nạp; đã chạy bước tạo phiếu MỚI; có Quản lý và kỹ thuật viên phù hợp (tài khoản trong data/processed/demo_accounts.json).
+- When: b1: Quản lý đăng nhập, mở M1. / b2: Bấm "Phân công" ở dòng phiếu đầu tiên, mở M2 và xem danh sách gợi ý. / b3: Chọn kỹ thuật viên đầu danh sách, bấm "Xác nhận phân công". / b4: Bấm "Đặt lịch hẹn", chọn loại, ngày D, 09:00–09:30, bấm "Lưu lịch hẹn". / b5: Đăng xuất, đăng nhập bằng kỹ thuật viên vừa được phân công, mở M3. / b6: Chọn phiếu, bấm "Bắt đầu sửa". / b7: Bấm "Hoàn tất".
+- Then (kỳ vọng): b1: M1 chỉ có phiếu MỚI của trung tâm, sắp CAO → TRUNG_BINH → THAP. / b2: M2 hiển thị thông tin phiếu và bảng gợi ý (tay nghề ≥ 3, khối lượng tăng dần). / b3: Thông báo thành công; trạng thái phiếu ĐÃ PHÂN CÔNG; bảng lịch sử thêm 1 dòng. / b4: Lịch hẹn lưu thành công, hiển thị với trạng thái ĐÃ HẸN. / b5: M3 của kỹ thuật viên có phiếu vừa nhận, số điện thoại dạng che. / b6: Trạng thái ĐANG XỬ LÝ. b7: Trạng thái HOÀN TẤT. / Kiểm CSDL cuối luồng: ticket.status = HOAN_TAT; ticket_status_log có đủ MOI → DA_PHAN_CONG → DANG_XU_LY → HOAN_TAT; có 1 lịch hẹn DA_HEN.
+- Dữ liệu thật dùng: Quản lý QL_TT01; phiếu MỚI thật BH-005310/2025; KTV đầu danh sách KT033 (khối lượng 60); lịch GIAO 09:00–09:30 ngày 07/12/2026
+- Kết quả thực tế: b1 5 phiếu MOI đúng thứ tự; b2 2 gợi ý, khối lượng [60, 76]; b3 HTTP 201, lịch sử +1 dòng; b4 HTTP 201, ĐÃ HẸN; b5 SĐT dạng che; b6 ĐANG XỬ LÝ; b7 HOÀN TẤT; CSDL: HOAN_TAT, log MOI → DA_PHAN_CONG → DANG_XU_LY → HOAN_TAT, 1 lịch DA_HEN (thời gian chạy 16.43s)
+- Trạng thái: PASS
+- Ảnh:
+  - TC18_ui_e2e_luong_chinh_b1_danh_sach_M1.png | http://localhost:5173/tickets | Smart CRM - Mekong Mobile | 2026-11-06T01:35:07+07:00 | 1280×720 | tồn tại
+  - TC18_ui_e2e_luong_chinh_b2_goi_y_M2.png | http://localhost:5173/tickets/5310/assign | Smart CRM - Mekong Mobile | 2026-11-06T01:35:07+07:00 | 1280×1020 | tồn tại
+  - TC18_ui_e2e_luong_chinh_b3_phan_cong_xong.png | http://localhost:5173/tickets/5310/assign | Smart CRM - Mekong Mobile | 2026-11-06T01:35:07+07:00 | 1280×1271 | tồn tại
+  - TC18_ui_e2e_luong_chinh_b4_dat_lich_xong.png | http://localhost:5173/tickets/5310/assign | Smart CRM - Mekong Mobile | 2026-11-06T01:35:08+07:00 | 1280×1467 | tồn tại
+  - TC18_ui_e2e_luong_chinh_b5_phieu_cua_toi_M3.png | http://localhost:5173/my-tickets | Smart CRM - Mekong Mobile | 2026-11-06T01:35:09+07:00 | 1280×3145 | tồn tại
+  - TC18_ui_e2e_luong_chinh_b6_dang_xu_ly.png | http://localhost:5173/my-tickets | Smart CRM - Mekong Mobile | 2026-11-06T01:35:09+07:00 | 1280×3706 | tồn tại
+  - TC18_ui_e2e_luong_chinh_b7_hoan_tat.png | http://localhost:5173/my-tickets | Smart CRM - Mekong Mobile | 2026-11-06T01:35:09+07:00 | 1280×1687 | tồn tại
+
+## 4. Danh sách ảnh trong docs/test-evidence/
+- TC01_goi_y_dung_thu_tu.png (56.149 bytes)
+- TC02_goi_y_loai_ktv_khong_du_dieu_kien.png (56.293 bytes)
+- TC03_goi_y_rong_khong_co_ktv.png (49.904 bytes)
+- TC04_phan_cong_thanh_cong.png (75.249 bytes)
+- TC05_bien_tay_nghe_bang_3.png (78.540 bytes)
+- TC06_bien_tay_nghe_bang_2.png (63.224 bytes)
+- TC07_phan_cong_phieu_da_co_ktv.png (68.352 bytes)
+- TC08_dat_lich_hop_le.png (231.738 bytes)
+- TC09_dat_lich_trung.png (81.993 bytes)
+- TC10_bien_lich_lien_ke.png (234.493 bytes)
+- TC11_chuyen_trang_thai_lui.png (62.757 bytes)
+- TC11_chuyen_trang_thai_lui_b.png (62.360 bytes)
+- TC11_chuyen_trang_thai_lui_c.png (61.122 bytes)
+- TC12_doi_ktv_thieu_ly_do.png (88.943 bytes)
+- TC12_doi_ktv_thieu_ly_do_a.png (62.442 bytes)
+- TC13_che_so_dien_thoai_va_phan_quyen.png (221.672 bytes)
+- TC13_che_so_dien_thoai_va_phan_quyen_b.png (75.366 bytes)
+- TC13_che_so_dien_thoai_va_phan_quyen_c.png (46.296 bytes)
+- TC14_ui_trang_thai_dang_tai.png (16.648 bytes)
+- TC15_ui_trang_thai_rong.png (17.497 bytes)
+- TC16_ui_trang_thai_loi_1_loi.png (18.565 bytes)
+- TC16_ui_trang_thai_loi_2_thu_lai.png (51.613 bytes)
+- TC17_ui_het_phien_dang_nhap_401_1_ve_dang_nhap.png (14.469 bytes)
+- TC17_ui_het_phien_dang_nhap_401_2_sai_mat_khau.png (17.874 bytes)
+- TC18_ui_e2e_luong_chinh_b1_danh_sach_M1.png (51.613 bytes)
+- TC18_ui_e2e_luong_chinh_b2_goi_y_M2.png (53.793 bytes)
+- TC18_ui_e2e_luong_chinh_b3_phan_cong_xong.png (68.301 bytes)
+- TC18_ui_e2e_luong_chinh_b4_dat_lich_xong.png (76.086 bytes)
+- TC18_ui_e2e_luong_chinh_b5_phieu_cua_toi_M3.png (366.060 bytes)
+- TC18_ui_e2e_luong_chinh_b6_dang_xu_ly.png (396.850 bytes)
+- TC18_ui_e2e_luong_chinh_b7_hoan_tat.png (128.216 bytes)
+
+## 5. Cảnh báo và điểm bất thường
+- Không có.
+
+## 6. Cách chạy lại
+1. PostgreSQL có `smartcrm_test` đã nạp dữ liệu thật (README mục 3).
+2. Chạy frontend: `cd src/frontend` rồi `npm run dev`; để trống cổng 8000 (test tự chạy backend).
+3. Windows PowerShell: `$env:TEST_DB_NAME = "smartcrm_test"` rồi `python -m pytest -m system`.
+4. Thêm `--headed --slowmo 300` để xem trình duyệt chạy.
